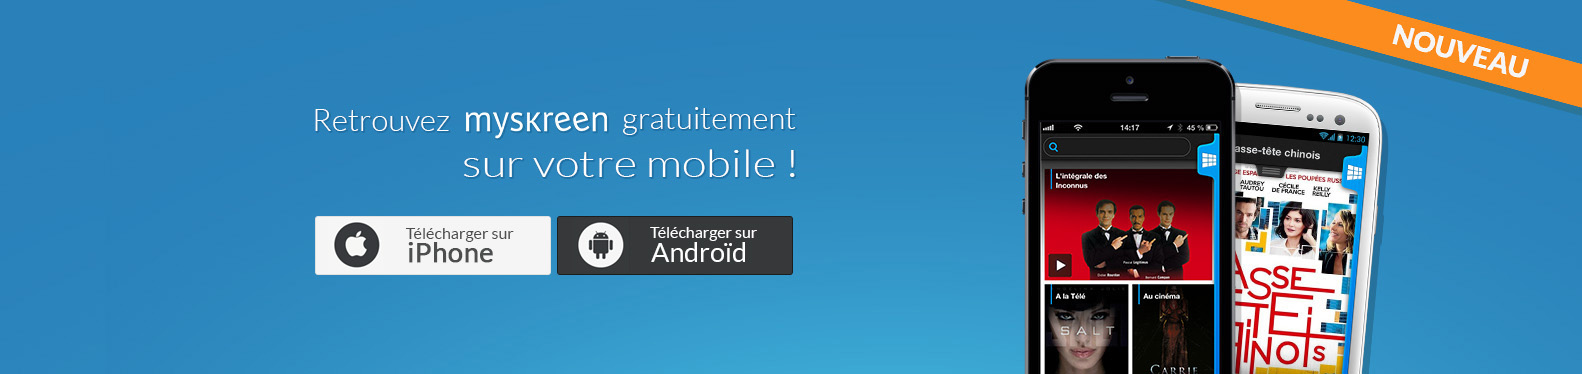
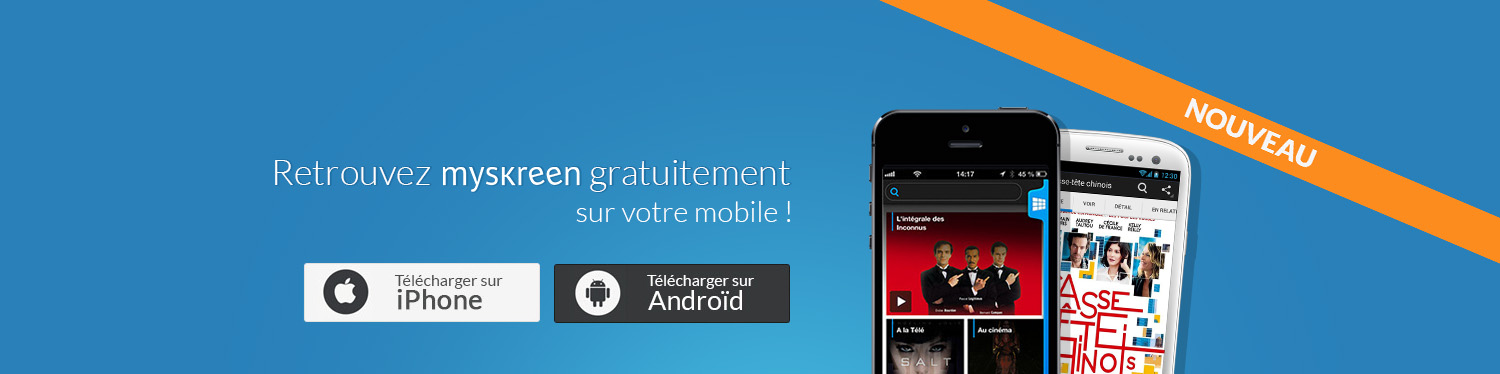
modifs page apps

diff --git a/Resources/public/less/apps.less b/Resources/public/less/apps.less
@@ -68,10 +68,9 @@
 }
 .myworldisblue{
   height: 373px;
-  background: url(/bundles/skreenhousefactoryv3/images/mobiles_apps.jpg) no-repeat top left;
+  background: url(/bundles/skreenhousefactoryv3/images/mobiles_apps.jpg) no-repeat top;
   overflow: hidden;
   padding-top: 70px;
-  background-position: -150px 0px;
 }
 .textbgcol{
   background: #fff;
@@ -88,12 +87,12 @@
   position: absolute;
   height: 60px;
   &.store1{
-    top: 215px;
-    left: 407px;
+    top: 263px;
+    left: 596px;
   }
   &.store2{
-    top: 215px;
-    left: 164px;
+    top: 262px;
+    left: 345px;
   }
   &:hover{
     background: white;
